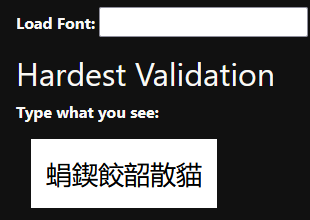
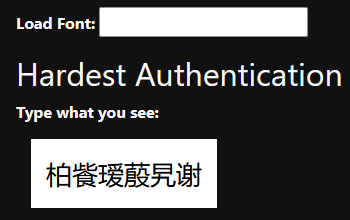
Renamed repo and updated references (#14)

diff --git a/web/static/style.css b/web/static/style.css
@@ -100,7 +100,7 @@ code {
 	margin: 10px 30px;
 }
 
-.validation-code {
+.authentication-code {
 	user-select: none;
 	background: #fff;
 	color: #000;

diff --git a/tests/test_web.py b/tests/test_web.py
@@ -12,28 +12,28 @@ def test_index(app, client):
 def test_simple_correct_data(app, client):
     res = client.get("/simple")
     assert res.status_code == 200
-    assert b"Simple Validation" in res.data
+    assert b"Simple Authentication" in res.data
 
     with client.session_transaction() as session:
         this_code = session["simple_val"]
-        res = client.post("/simple_validation", data={"validation": this_code})
+        res = client.post("/simple_authentication", data={"authentication": this_code})
         assert res.status_code == 200
 
 
 def test_simple_incorrect_data(app, client):
     res = client.get("/simple")
     assert res.status_code == 200
-    assert b"Simple Validation" in res.data
+    assert b"Simple Authentication" in res.data
 
     with client.session_transaction() as session:
-        this_code = "BADCODE"  # Pass a value that isn't the correct validation code
+        this_code = "BADCODE"  # Pass a value that isn't the correct authentication code
         assert this_code != session["simple_val"]
-        res = client.post("/simple_validation", data={"validation": this_code})
+        res = client.post("/simple_authentication", data={"authentication": this_code})
         assert res.status_code == 302
 
 
-def test_simple_validation_endpoint(app, client):
-    res = client.get("/simple_validation")
+def test_simple_authentication_endpoint(app, client):
+    res = client.get("/simple_authentication")
     # The default should make this inaccessible
     # This only should be sent info and then evaluate it
     assert res.status_code == 405
@@ -45,28 +45,28 @@ def test_simple_validation_endpoint(app, client):
 def test_hard_correct_data(app, client):
     res = client.get("/hard")
     assert res.status_code == 200
-    assert b"Hard Validation" in res.data
+    assert b"Hard Authentication" in res.data
 
     with client.session_transaction() as session:
         this_code = session["hard_val"]
-        res = client.post("/hard_validation", data={"validation": this_code})
+        res = client.post("/hard_authentication", data={"authentication": this_code})
         assert res.status_code == 200
 
 
 def test_hard_incorrect_data(app, client):
     res = client.get("/hard")
     assert res.status_code == 200
-    assert b"Hard Validation" in res.data
+    assert b"Hard Authentication" in res.data
 
     with client.session_transaction() as session:
-        this_code = "BADCODE"  # Pass a value that isn't the correct validation code
+        this_code = "BADCODE"  # Pass a value that isn't the correct authentication code
         assert this_code != session["hard_val"]
-        res = client.post("/hard_validation", data={"validation": this_code})
+        res = client.post("/hard_authentication", data={"authentication": this_code})
         assert res.status_code == 302
 
 
-def test_hard_validation_endpoint(app, client):
-    res = client.get("/hard_validation")
+def test_hard_authentication_endpoint(app, client):
+    res = client.get("/hard_authentication")
     # The default should make this inaccessible
     # This only should be sent info and then evaluate it
     assert res.status_code == 405
@@ -76,28 +76,28 @@ def test_hard_validation_endpoint(app, client):
 def test_hardest_correct_data(app, client):
     res = client.get("/hardest")
     assert res.status_code == 200
-    assert b"Hardest Validation" in res.data
+    assert b"Hardest Authentication" in res.data
 
     with client.session_transaction() as session:
         this_code = session["hardest_val"]
-        res = client.post("/hardest_validation", data={"validation": this_code})
+        res = client.post("/hardest_authentication", data={"authentication": this_code})
         assert res.status_code == 200
 
 
 def test_hardest_incorrect_data(app, client):
     res = client.get("/hardest")
     assert res.status_code == 200
-    assert b"Hardest Validation" in res.data
+    assert b"Hardest Authentication" in res.data
 
     with client.session_transaction() as session:
-        this_code = "BADCODE"  # Pass a value that isn't the correct validation code
+        this_code = "BADCODE"  # Pass a value that isn't the correct authentication code
         assert this_code != session["hardest_val"]
-        res = client.post("/hardest_validation", data={"validation": this_code})
+        res = client.post("/hardest_authentication", data={"authentication": this_code})
         assert res.status_code == 302
 
 
-def test_hardest_validation_endpoint(app, client):
-    res = client.get("/hardest_validation")
+def test_hardest_authentication_endpoint(app, client):
+    res = client.get("/hardest_authentication")
     # The default should make this inaccessible
     # This only should be sent info and then evaluate it
     assert res.status_code == 405

diff --git a/web/__init__.py b/web/__init__.py
@@ -12,7 +12,7 @@ from web.validator import generate_code_from_file, generate_simple_code
 # CONFIG SETTINGS
 CODE_LENGTH = 6  # This must be an integer
 # These are keys used to both generate the public and private code as well as the font needed to easily decipher
-# the correct code for validation.
+# the correct code for authentication.
 HARD_KEY = "./example/font1.txt"
 HARDEST_KEY = "./example/dict.txt"
 FLASK_SECRET = "mysecret"  # This should be in an .env file for security, but for the demo is intentionally left here
@@ -50,18 +50,20 @@ def index():
 def simple():
     the_code = generate_simple_code(CODE_LENGTH)
     session["simple_val"] = the_code
-    return render_template("validation/simple.html.jinja", title="Simple Validation", validation_code=the_code)
+    return render_template(
+        "authentication/simple.html.jinja", title="Simple Authentication", authentication_code=the_code
+    )
 
 
-@app.route("/simple_validation", methods=["POST"])
-def simple_validation():
+@app.route("/simple_authentication", methods=["POST"])
+def simple_authentication():
     # Get the info from the form
-    user_input = request.form["validation"]
-    if user_input == session["simple_val"]:  # they have passes the validation
-        flash("Validation successful")
+    user_input = request.form["authentication"]
+    if user_input == session["simple_val"]:  # they have passes the authentication
+        flash("Authentication successful")
         return render_template("page.html.jinja", v_name="simple")
     else:
-        flash("Validation failed")
+        flash("Authentication failed")
         return redirect(url_for("simple"))
 
 
@@ -71,18 +73,20 @@ def hard():
     private_code = code_array[0]
     public_code = code_array[1]
     session["hard_val"] = private_code
-    return render_template("validation/hard.html.jinja", title="Hard Validation", validation_code=public_code)
+    return render_template(
+        "authentication/hard.html.jinja", title="Hard Authentication", authentication_code=public_code
+    )
 
 
-@app.route("/hard_validation", methods=["POST"])
-def hard_validation():
+@app.route("/hard_authentication", methods=["POST"])
+def hard_authentication():
     # Get the info from the form
-    user_input = request.form["validation"]
-    if user_input == session["hard_val"]:  # they have passes the validation
-        flash("Validation successful")
+    user_input = request.form["authentication"]
+    if user_input == session["hard_val"]:  # they have passes the authentication
+        flash("Authentication successful")
         return render_template("page.html.jinja", v_name="hard")
     else:
-        flash("Validation failed")
+        flash("Authentication failed")
         return redirect(url_for("hard"))
 
 
@@ -92,18 +96,20 @@ def hardest():
     private_code = code_array[0]
     public_code = code_array[1]
     session["hardest_val"] = private_code
-    return render_template("validation/hardest.html.jinja", title="Hardest Validation", validation_code=public_code)
+    return render_template(
+        "authentication/hardest.html.jinja", title="Hardest Authentication", authentication_code=public_code
+    )
 
 
-@app.route("/hardest_validation", methods=["POST"])
-def hardest_validation():
+@app.route("/hardest_authentication", methods=["POST"])
+def hardest_authentication():
     # Get the info from the form
-    user_input = request.form["validation"]
-    if user_input == session["hardest_val"]:  # they have passes the validation
-        flash("Validation successful")
+    user_input = request.form["authentication"]
+    if user_input == session["hardest_val"]:  # they have passes the authentication
+        flash("Authentication successful")
         return render_template("page.html.jinja", v_name="hardest")
     else:
-        flash("Validation failed")
+        flash("Authentication failed")
         return redirect(url_for("hardest"))
 
 

diff --git a/README.md b/README.md
@@ -1,20 +1,20 @@
-# font-val
+# font-authentication
 
-**Font Validator** is a proof-of-concept for using fonts as part of a validation process.
+**Font Authentication** is a proof of concept for using fonts as part of the authentication process.
 Fonts can associate a character/letter with a glyph (an image representation) which could be unrelated to the character.
 An example of this is the Wingdings dingbat font. When using Wingdings, typed characters render as pictures unrelated to the characters.
 It is possible to create private fonts and distribute them to authorized parties.
 
-By generating a key and associating certain characters with specific letters, it is possible to create a public validation code.
-When used with the correct font, the public validation code will show the private validation code, which will authenticate the user.
+By generating a key and associating certain characters with specific letters, it is possible to create a public authentication code.
+When used with the correct font, the public authentication code will show the private authentication code, which will authenticate the user.
 
-Image 1 shows the validation code without the required font installed.
-Image 2 shows what the correct validation code looks when the correct font is installed and loaded.
+Image 1 shows the authentication code without the required font installed.
+Image 2 shows what the correct authentication code looks when the correct font is installed and loaded.
 
 **Image 1:**
 <div align="center">
 
-![image_1](https://github.com/Yorzaren/font-val/raw/main/web/static/image_1.png)
+![image_1](https://github.com/Yorzaren/font-authentication/raw/main/web/static/image_1.png)
 
 </div>
 
@@ -22,11 +22,11 @@ Image 2 shows what the correct validation code looks when the correct font is in
 
 <div align="center">
 
-![image_2](https://github.com/Yorzaren/font-val/raw/main/web/static/image_2.png)
+![image_2](https://github.com/Yorzaren/font-authentication/raw/main/web/static/image_2.png)
 
 </div>
 
-A character in the private validation code can render as multiple characters.
+A character in the private authentication code can render as multiple characters.
 This makes it difficult to bruteforce and discover the mapping because the likelihood of seeing the character again is unlikely.
 
 ## Install
@@ -75,7 +75,7 @@ After successfully importing the glyphs and modifying the file, you can export i
 I export mine as a `.ttf` file.
 
 ## Run the Demo
-By default, there's some included example files which can display the proof-of-concept working.
+By default, there's some included example files which can display the proof of concept working.
 
 Start the site on the localhost by using the following command:
 
